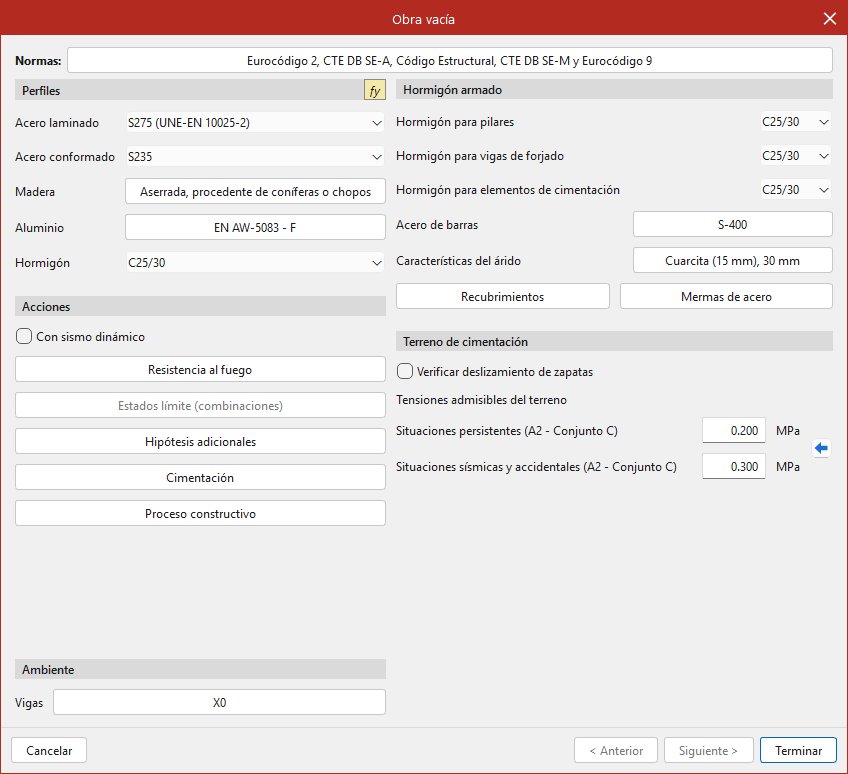
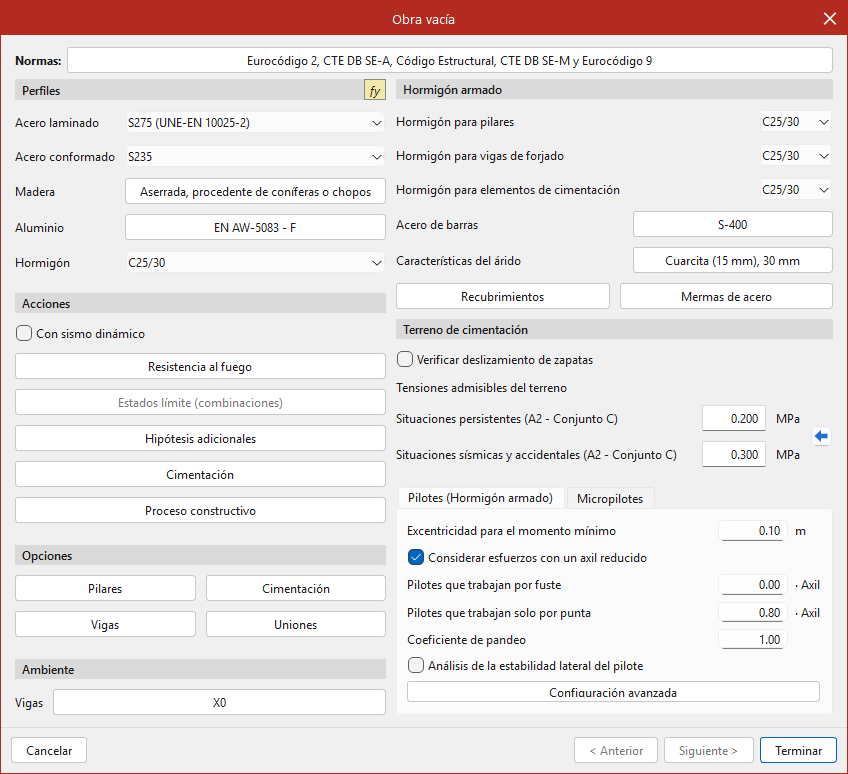
fix(app): decimal point in wizard spin boxes and capture of Pilotes section (T-P2-05)

diff --git a/src/app/EmptyProjectWizard.cpp b/src/app/EmptyProjectWizard.cpp
@@ -72,8 +72,8 @@ EmptyProjectWizard::EmptyProjectWizard(QWidget* parent) : CypeDialog(tr("Obra va
     columns->setSpacing(10);
     auto* left = new QVBoxLayout;
     auto* right = new QVBoxLayout;
-    columns->addLayout(left, 4);
-    columns->addLayout(right, 6);
+    columns->addLayout(left, 41);
+    columns->addLayout(right, 59);
     contentLayout()->addLayout(columns, 1);
 
     buildProfiles(left);
@@ -363,6 +363,7 @@ QDoubleSpinBox* pileSpin(double& target, QWidget* parent) {
     spin->setRange(0.0, 99.99);
     spin->setValue(target);
     spin->setAlignment(Qt::AlignRight);
+    spin->setLocale(QLocale::c());  // the original shows a decimal point (0.10)
     spin->setFixedWidth(72);
     QObject::connect(spin, &QDoubleSpinBox::valueChanged, parent, [&target](double v) { target = v; });
     return spin;

diff --git a/src/app/WizardSubDialogs.cpp b/src/app/WizardSubDialogs.cpp
@@ -41,6 +41,7 @@ QDoubleSpinBox* makeSpin(double value, double min, double max, int decimals, QWi
     spin->setRange(min, max);
     spin->setValue(value);
     spin->setAlignment(Qt::AlignRight);
+    spin->setLocale(QLocale::c());  // the original shows a decimal point (0.10)
     spin->setFixedWidth(64);
     return spin;
 }

diff --git a/.tasks.md b/.tasks.md
@@ -34,7 +34,7 @@ Dashboard: `.tasks.html` (se regenera con `pwsh tools/gen_dashboard.ps1`). Ticke
 | T-P2-02 | 2 | Diálogo Nueva obra (ruta, nombre .ed3, descripción) | [x] | CypeDialog (base: marco rojo, título centrado, ×, arrastrable) reutilizable para todos los diálogos + NewProjectDialog 537x285 (Examinar con cuadro Guardar estándar, nombre por defecto nuevo preseleccionado, sufijo .ed3, descripción). Validación: nombre vacío, caracteres inválidos, nombres reservados de Windows, punto final, ruta > 259, confirmación si el fichero existe. Carpeta recordada en QSettings. 5 tests. Captura clone_p2_nueva_obra.png vs orig_nueva_obra_01.png. Conectado a Archivo > Nuevo...; tras Aceptar queda a la espera de T-P2-03. Opción dev --preview-dialog new-project |
 | T-P2-03 | 2 | Diálogo tipo de obra (Obra vacía / IFC) | [x] | ProjectTypeDialog 682x457: radios Obra vacía (defecto, negrita al seleccionar) / Introducción automática IFC, ilustración propia (structure_sample.svg, no copiada). IFC seleccionable pero muestra aviso y no acepta hasta fase 17 (TK-004 abierto). Encadenado tras Nueva obra. 2 tests. Captura clone_p2_tipo_obra.png vs orig_asistente_01.png. Opción dev --preview-dialog project-type |
 | T-P2-04 | 2 | Asistente Obra vacía: Normas, Perfiles, Hormigón | [x] | Modelo core/project_settings (perfiles, hormigón armado, listas verificadas, validación) y EmptyProjectWizard 848x774 (una página; Cancelar / < Anterior y Siguiente > deshabilitados / Terminar por defecto) con fila Normas (resumen + StandardsDialog), Perfiles (acero laminado/conformado, madera, aluminio, hormigón, icono fy) y Hormigón armado (3 hormigones, Acero de barras, Árido, Recubrimientos, Mermas). Subdiálogos en WizardSubDialogs: Madera, Aluminio, fy, Acero de barras, Árido, menú Recubrimientos + 3 diálogos, Mermas (con Valores de instalación). Conectado tras Tipo de obra. 38 tests en total (core + GUI). Huecos no verificados en TK-011; persistencia de "Grabar como opciones por defecto" y fy en TK-012; C.E./CTE en TK-010. Acciones/Opciones/Ambiente/Terreno/Pilotes quedan vacíos hasta T-P2-05. Opción dev --preview-dialog empty-project. Captura clone_p2_obra_vacia.png vs orig_obra_vacia_01.png (Acciones/Opciones/Ambiente/Terreno aún vacíos) |
-| T-P2-05 | 2 | Asistente Obra vacía: Acciones, Opciones, Ambiente, Terreno, Pilotes | [x] | Hecho: Acciones (ver TK-013/TK-014), Ambiente (diálogo Vigas; solo la clase X0 habilitada, el resto sin verificar, TK-011) y Terreno de cimentación (deslizamiento, tensiones 0.200/0.300 MPa con validación 0.001-50 y mensaje Aviso que restaura el valor, importación de valores usuales con 8 tipos de terreno). 42 tests en total. Captura clone_p2_obra_vacia.png actualizada. Completado: Pilotes (HA) con excentricidad 0.10, axil reducido, fuste 0.00 y punta 0.80, pandeo 1.00 y estabilidad lateral; Configuración avanzada (556x786) con la pestaña Hundimiento completa y las pestañas Comprobación estructural / Tope estructural como marcador no verificado (TK-016); Micropilotes con sus valores y flechas de valor por defecto (su Configuración avanzada, deshabilitada, TK-016); Opciones: 4 botones que abren menús con los tamaños y textos de las capturas (Pilares con 4 páginas) y todos los botones hoja deshabilitados (TK-015). 46 tests. Pendiente: comparar visualmente con orig_obra_vacia_01/22 (requiere OK del usuario para lanzar el clon) |
+| T-P2-05 | 2 | Asistente Obra vacía: Acciones, Opciones, Ambiente, Terreno, Pilotes | [x] | Hecho: Acciones (ver TK-013/TK-014), Ambiente (diálogo Vigas; solo la clase X0 habilitada, el resto sin verificar, TK-011) y Terreno de cimentación (deslizamiento, tensiones 0.200/0.300 MPa con validación 0.001-50 y mensaje Aviso que restaura el valor, importación de valores usuales con 8 tipos de terreno). 42 tests en total. Captura clone_p2_obra_vacia.png actualizada. Completado: Pilotes (HA) con excentricidad 0.10, axil reducido, fuste 0.00 y punta 0.80, pandeo 1.00 y estabilidad lateral; Configuración avanzada (556x786) con la pestaña Hundimiento completa y las pestañas Comprobación estructural / Tope estructural como marcador no verificado (TK-016); Micropilotes con sus valores y flechas de valor por defecto (su Configuración avanzada, deshabilitada, TK-016); Opciones: 4 botones que abren menús con los tamaños y textos de las capturas (Pilares con 4 páginas) y todos los botones hoja deshabilitados (TK-015). 46 tests. Capturado con el clon (clone_p2_obra_vacia.png): punto decimal corregido; diferencias residuales de espaciado vertical y ancho de la columna izquierda (anchura mínima por contenido), sin corregir |
 | T-P2-06 | 2 | Diálogo Estados límite | [ ] | |
 | T-P2-07 | 2 | Gestión de archivos y lista de últimos ficheros | [ ] | |
 | T-P2-08 | 2 | Ejemplos de obra | [ ] | Depende de fases 5–7 |
